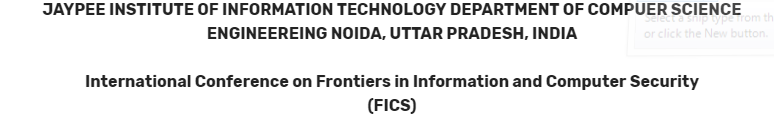
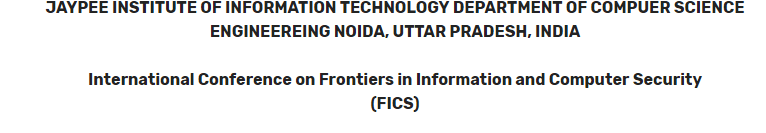
updated

diff --git a/index.html b/index.html
@@ -218,7 +218,7 @@
     <div id="carousel-1" class="carousel slide carousel-fade " >
       <div class="carousel-inner " role="listbox">
         <div class="carousel-item active " id="home">
-          <iframe src="./components/homeComponent.html" class="margin_set" id="noteMe" width="100%" height="100%" type="text/html" ></iframe>
+          <iframe src="./components/homeComponent.html" class="margin_set" id="noteMe" width="100%" height="100%" type="text/html"></iframe>
         </div>
         <div class="carousel-item ">
           <iframe src="./components/about.html" class="margin_set" id="noteMe" width="100%" height="100%" type="text/html" ></iframe>
@@ -289,7 +289,7 @@
           </div>
       </section>
       </div>
-     
+
       <div class="col-md-6 mt-md-0 mt-3">
 
           <!-- Content -->
@@ -297,7 +297,7 @@
           <p>Lorem ipsum dolor sit, amet consectetur adipisicing elit. Expedita sapiente sint, nulla, nihil
             repudiandae commodi voluptatibus corrupti animi sequi aliquid magnam debitis, maxime quam recusandae
             harum esse fugiat. Itaque, culpa?</p>
-  
+
         </div>
       <!-- Grid column -->
 

diff --git a/css/styleindex.css b/css/styleindex.css
@@ -6,24 +6,48 @@
   background: url('../images/jiit.png') no-repeat;
   background-size: contain;
   width: 100%;
-  height: 140px;
+  height: 20%;
 }
-
 .logo {
   background: url('../images/jiit.jpg') no-repeat;
   background-size: contain;
   width: 100%;
-  height: 140px;
+  height: 20%;
   font-weight: bold;
 }
 .logo-2 {
   background: url('../images/cist.jpg') no-repeat;
   background-size: contain;
   width: 100%;
-  height: 140px;
+  height: 20%;
+}
+@media (max-width: 640px) {
+  .confName {
+    background: url('../images/jiit.png') no-repeat;
+    background-size: contain;
+    width: 100%;
+    height: 10%;
+  }
+  .logo {
+    background: url('../images/jiit.jpg') no-repeat;
+    background-size: contain;
+    width: 100%;
+    height: 10%;
+    font-weight: bold;
+  }
+  .logo-2 {
+    background: url('../images/cist.jpg') no-repeat;
+    background-size: contain;
+    width: 100%;
+    height: 10%;
+  }
+}
+iframe {
+  overflow-y: auto;
+  overflow-x: hidden;
 }
 .carousel-item {
-  height: 100%;
+  height: 65vh;
   background: no-repeat center center scroll;
   -webkit-background-size: cover;
   -moz-background-size: cover;

diff --git a/components/homeComponent.html b/components/homeComponent.html
@@ -11,8 +11,8 @@
   </head>
 <body>
   <style>
-  ::-webkit-scrollbar {
-    display: none;
+  body {
+    overflow-x: hidden;
   }
   .header-text {
     position: absolute;
@@ -37,7 +37,7 @@
 	padding: 15px;
 }
 .carousel {
-  width: 500px;
+  width: 130%;
   border: 2px solid black;
   border-top: 3px solid #47a3da;
 }
@@ -45,7 +45,7 @@
   </style>
   <div class="row">
     <div class="col-4">
-      <div class="card">
+      <td><div class="card">
         <div  class="carousel slide carousel-slide" data-ride="carousel"  data-interval="5000" data-pause="false">
           <div class="carousel-inner" role="listbox">
             <div class="carousel-item ">
@@ -318,7 +318,7 @@
 
   }
   ::-webkit-scrollbar {
-    display: none;
+    display:;
   }
     .marquee {
       width: 100%;
